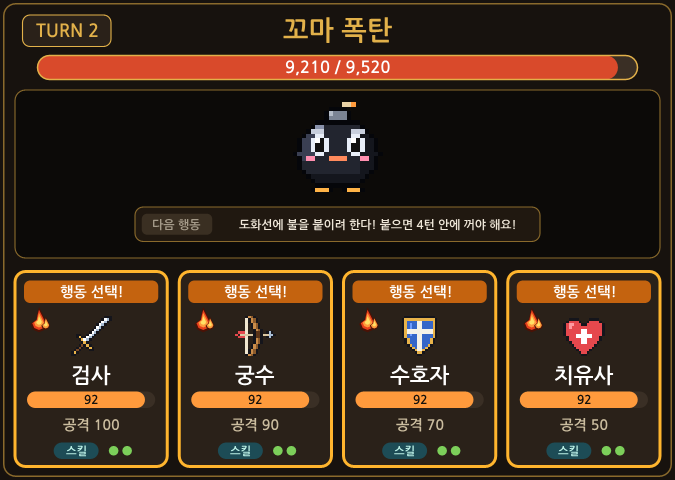
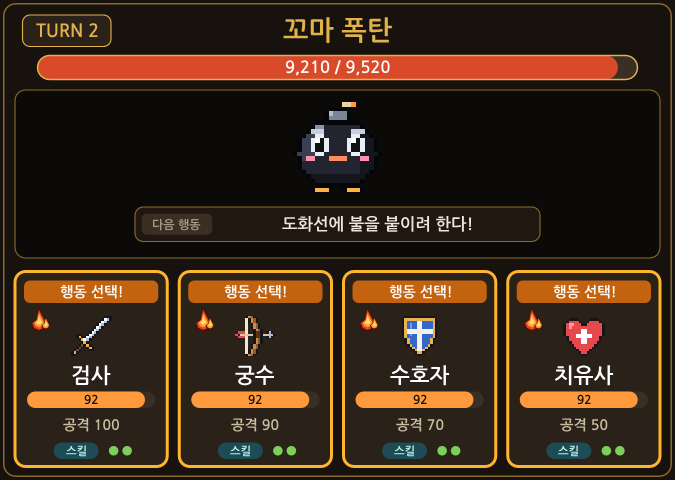
점화 예고 문구 줄임: '🔥 도화선에 불을 붙이려 한다!'

Changed region(s): [[0.3422, 0.4375, 0.7778, 0.5]]

diff --git a/레이드설명서/신몬스터/신몬스터_설명서.md b/레이드설명서/신몬스터/신몬스터_설명서.md
@@ -134,7 +134,7 @@
 | 데굴데굴 박치기 | 몸을 데굴데굴 굴리기 시작한다... | 한 명 10~12 |
 | 분진 흩날리기 | 몸을 부르르 털며 화약 가루를 뿌린다... | 전원 3~5 + 🔥화상(3턴, 중첩 × 2, 최대 3중첩) |
 | 연막탄 | 몸에서 회색 연기가 피어오른다... | 다음 행동 예고를 가림 |
-| 점화 | 🔥 도화선에 불을 붙이려 한다! 붙으면 4턴 안에 꺼야 해요! | 카운트다운 시작 |
+| 점화 | 🔥 도화선에 불을 붙이려 한다! | 카운트다운 시작 |
 | 대폭발 | 💣 곧 터진다! 방어해도 절반만 막아요! | (점화 뒤 마지막 턴에만) 전원 18~22, 방어 50% + 화상 |
 
 - 비중: 평상시 박치기 4 · 불똥 2.5 · 연막 1.5 · 점화 1 / 분노 3.5 · 2.5 · 1.5 · 1.5
